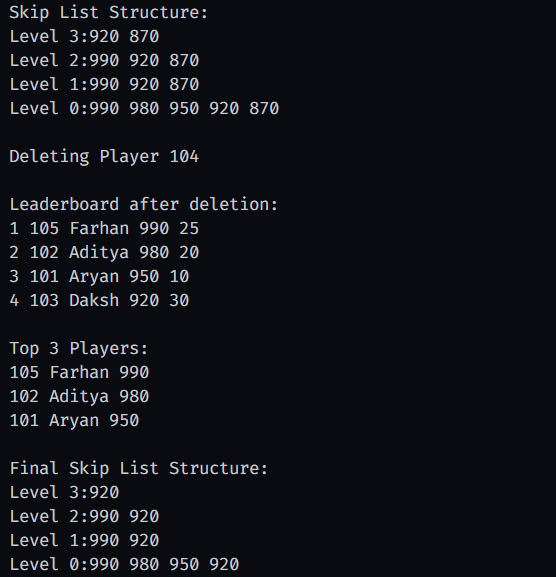
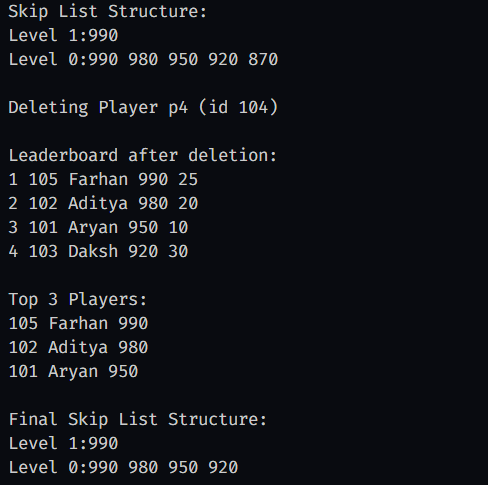
Change deletion and updation algorithm to O(lg n), modify Test Case screenshots, Task 1 closed

Changed region(s): [[0.0, 0.0, 0.584, 0.5567], [0.0, 0.5876, 0.5225, 0.9897]]

diff --git a/other/dsa_assignment_2/task1/task1.cpp b/other/dsa_assignment_2/task1/task1.cpp
@@ -128,7 +128,7 @@ public:
      * Inserts a new player into the skip list
      * @param p `Player` structure of new player `p` to be inserted into the skip list
      */
-    void insertPlayer(Player p)
+    void insertPlayer(Player &p)
     {
         Node *update[MAX_LEVELS + 1];
         Node *curr = header;
@@ -167,67 +167,57 @@ public:
     }
 
     /**
-     * Delete the player with given Player ID
-     * @param id ID of player to be deleted
+     * Delete the player with given `Player` Structure
+     * @param p `Player` structure of the player to be deleted
      */
-    void deletePlayer(int id)
+    void deletePlayer(const Player &p)
     {
         Node *update[MAX_LEVELS + 1];
         Node *curr = header;
 
-        Node *tar = header->next[0];
-        while (tar != nullptr && tar->pdata.pid != id)
-        {
-            tar = tar->next[0];
-        }
-
-        if (tar == nullptr)
-            return;
-
         for (int i = curr_level; i >= 0; i--)
         {
-            while (curr->next[i] != nullptr && is_p1_greater_p2(curr->next[i]->pdata, tar->pdata))
+            while (curr->next[i] != nullptr && is_p1_greater_p2(curr->next[i]->pdata, p))
             {
                 curr = curr->next[i];
             }
             update[i] = curr;
         }
 
-        for (int i = 0; i <= curr_level; i++)
+        Node *tar = curr->next[0];
+
+        if (tar != nullptr && tar->pdata.pid == p.pid)
         {
-            if (update[i]->next[i] != tar)
+            for (int i = 0; i <= curr_level; i++)
             {
-                break;
+                if (update[i]->next[i] != tar)
+                {
+                    break;
+                }
+                update[i]->next[i] = tar->next[i];
             }
-            update[i]->next[i] = tar->next[i];
-        }
 
-        delete tar;
-        tar = nullptr;
+            delete tar;
+            tar = nullptr;
 
-        while (curr_level > 0 && header->next[curr_level] == nullptr)
-        {
-            curr_level--;
+            while (curr_level > 0 && header->next[curr_level] == nullptr)
+            {
+                curr_level--;
+            }
         }
     }
 
     /**
-     * Function to update score of player with ID `id` with score `score`
-     * @param id ID of player whose score is to be updated
+     * Function to update score of given player with score `score`
+     * @param p `Player` structure of player whose score is to be updated
      * @param score New Score of Player
-     * @note This algorithm follows by searching the player with given id, constructing a copy Node with old player structure and new score, Deleting the old Node and inserting the new Node
+     * @note This algorithm follows by constructing a copy Node with old player structure and new score, Deleting the old Node and inserting the new Node
      */
-    void updateScore(int id, int score)
+    void updateScore(Player p, int score)
     {
-        Node *p = searchPlayer(id);
-        if (p == nullptr)
-            return;
-
-        Player temp = p->pdata;
-        deletePlayer(id);
-
+        deletePlayer(p);
+        Player temp = p;
         temp.pscore = score;
-
         insertPlayer(temp);
     }
 
@@ -351,8 +341,8 @@ int main()
     cout << "\nRank of Player 103: ";
     cout << l.getRank(103) << endl;
 
-    cout << "\nUpdating score of Player 102 to 980\n";
-    l.updateScore(102, 980);
+    cout << "\nUpdating score of Player p2 (id 102) to 980\n";
+    l.updateScore(p2, 980);
 
     cout << "\nLeaderboard after score update:\n";
     l.displayLeaderboard();
@@ -360,8 +350,8 @@ int main()
     cout << "\nSkip List Structure:\n";
     l.displaySkipListStructure();
 
-    cout << "\nDeleting Player 104\n";
-    l.deletePlayer(104);
+    cout << "\nDeleting Player p4 (id 104)\n";
+    l.deletePlayer(p4);
 
     cout << "\nLeaderboard after deletion:\n";
     l.displayLeaderboard();
@@ -407,8 +397,8 @@ int main()
     cout << "\nRank of Player 203: ";
     cout << l2.getRank(203) << endl;
 
-    cout << "\nUpdating score of Player 201 to 990\n";
-    l2.updateScore(201, 990);
+    cout << "\nUpdating score of Player q1 (id 201) to 990\n";
+    l2.updateScore(q1, 990);
 
     cout << "\nLeaderboard after score update:\n";
     l2.displayLeaderboard();
@@ -416,8 +406,8 @@ int main()
     cout << "\nSkip List Structure:\n";
     l2.displaySkipListStructure();
 
-    cout << "\nDeleting Player 204\n";
-    l2.deletePlayer(204);
+    cout << "\nDeleting Player q4 (id 204)\n";
+    l2.deletePlayer(q4);
 
     cout << "\nLeaderboard after deletion:\n";
     l2.displayLeaderboard();
